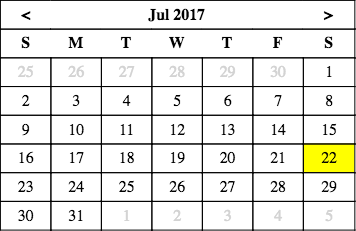
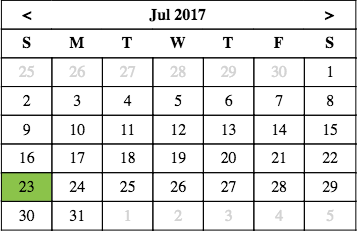
cal api add, docs add

diff --git a/dist/main.js b/dist/main.js
@@ -1,1 +1,1 @@
-module.exports=function(e){function t(a){if(n[a])return n[a].exports;var r=n[a]={i:a,l:!1,exports:{}};return e[a].call(r.exports,r,r.exports,t),r.l=!0,r.exports}var n={};return t.m=e,t.c=n,t.d=function(e,n,a){t.o(e,n)||Object.defineProperty(e,n,{configurable:!1,enumerable:!0,get:a})},t.n=function(e){var n=e&&e.__esModule?function(){return e.default}:function(){return e};return t.d(n,"a",n),n},t.o=function(e,t){return Object.prototype.hasOwnProperty.call(e,t)},t.p="",t(t.s=3)}([function(e,t){e.exports=require("react")},function(e,t,n){"use strict";function a(e,t){if(!(e instanceof t))throw new TypeError("Cannot call a class as a function")}function r(e,t){if(!e)throw new ReferenceError("this hasn't been initialised - super() hasn't been called");return!t||"object"!=typeof t&&"function"!=typeof t?e:t}function o(e,t){if("function"!=typeof t&&null!==t)throw new TypeError("Super expression must either be null or a function, not "+typeof t);e.prototype=Object.create(t&&t.prototype,{constructor:{value:e,enumerable:!1,writable:!0,configurable:!0}}),t&&(Object.setPrototypeOf?Object.setPrototypeOf(e,t):e.__proto__=t)}Object.defineProperty(t,"__esModule",{value:!0});var l=function(){function e(e,t){for(var n=0;n<t.length;n++){var a=t[n];a.enumerable=a.enumerable||!1,a.configurable=!0,"value"in a&&(a.writable=!0),Object.defineProperty(e,a.key,a)}}return function(t,n,a){return n&&e(t.prototype,n),a&&e(t,a),t}}(),u=n(0),c=function(e){return e&&e.__esModule?e:{default:e}}(u);n(2);var s=["Jan","Feb","Mar","Apr","May","Jun","Jul","Aug","Sep","Oct","Nov","Dec"],i=864e5,f=function(e){function t(e){a(this,t);var n=r(this,(t.__proto__||Object.getPrototypeOf(t)).call(this,e)),o=n.props.date instanceof Date?n.props.date:new Date;return o.setHours(0,0,0,0),n.state={selDate:o},n}return o(t,e),l(t,[{key:"nextMonth",value:function(){var e=this.state.selDate,t=(e.getMonth(),new Date(e.getTime()+i*(e.getDate()<15?30:20)));this.setState({selDate:t})}},{key:"currMonth",value:function(){this.setState({selDate:new Date})}},{key:"prevMonth",value:function(){var e=this.state.selDate,t=(e.getMonth(),new Date(e.getTime()-i*(e.getDate()>15?30:20)));this.setState({selDate:t})}},{key:"render",value:function(){for(var e=this.state.selDate,t=s[e.getMonth()],n=e.getFullYear(),a=e.getMonth(),r=new Date(e.getTime()-i*(e.getDate()-1)),o=r.getDay(),l=new Date(r.getTime()-i*o),u=l.getMonth(),f=[];u!=a;)f.push(c.default.createElement("td",{key:l,className:"date prev-month"},l.getDate())),l=new Date(l.getTime()+i),u=l.getMonth();for(;u==a;){var p=l.toDateString()==(new Date).toDateString(),d=p?"today":"";f.push(c.default.createElement("td",{key:l,className:"date curr-month "+d},l.getDate())),l=new Date(l.getTime()+i),u=l.getMonth()}for(;l.getDay();)f.push(c.default.createElement("td",{key:l,className:"date next-month"},l.getDate())),l=new Date(l.getTime()+i),u=l.getMonth();for(var h=[],m=0;m<f.length;)h.push(c.default.createElement("tr",{key:"week-"+m/7,className:"week"},f.slice(m,m+7))),m+=7;return c.default.createElement("div",{className:"rc-month-calendar-cont"},c.default.createElement("table",{className:"rc-month-calendar "+this.props.containerKlass},c.default.createElement("thead",null,c.default.createElement("tr",{className:"header month"},c.default.createElement("th",{className:"month-button prev",onClick:this.prevMonth.bind(this)},"<"),c.default.createElement("th",{colSpan:5,className:"month",onClick:this.currMonth.bind(this)},t," ",n),c.default.createElement("th",{className:"month-button prev",onClick:this.nextMonth.bind(this)},">")),c.default.createElement("tr",{className:"header day-names"},c.default.createElement("th",{className:"day"},"S"),c.default.createElement("th",{className:"day"},"M"),c.default.createElement("th",{className:"day"},"T"),c.default.createElement("th",{className:"day"},"W"),c.default.createElement("th",{className:"day"},"T"),c.default.createElement("th",{className:"day"},"F"),c.default.createElement("th",{className:"day"},"S"))),c.default.createElement("tbody",null,h)))}}]),t}(u.Component);t.default=f},function(e,t){},function(e,t,n){"use strict";function a(e){return e&&e.__esModule?e:{default:e}}function r(e,t){if(!(e instanceof t))throw new TypeError("Cannot call a class as a function")}function o(e,t){if(!e)throw new ReferenceError("this hasn't been initialised - super() hasn't been called");return!t||"object"!=typeof t&&"function"!=typeof t?e:t}function l(e,t){if("function"!=typeof t&&null!==t)throw new TypeError("Super expression must either be null or a function, not "+typeof t);e.prototype=Object.create(t&&t.prototype,{constructor:{value:e,enumerable:!1,writable:!0,configurable:!0}}),t&&(Object.setPrototypeOf?Object.setPrototypeOf(e,t):e.__proto__=t)}var u=function(){function e(e,t){for(var n=0;n<t.length;n++){var a=t[n];a.enumerable=a.enumerable||!1,a.configurable=!0,"value"in a&&(a.writable=!0),Object.defineProperty(e,a.key,a)}}return function(t,n,a){return n&&e(t.prototype,n),a&&e(t,a),t}}(),c=n(0),s=a(c),i=n(4),f=a(i),p=n(1),d=a(p);n(5);var h=function(e){function t(){return r(this,t),o(this,(t.__proto__||Object.getPrototypeOf(t)).apply(this,arguments))}return l(t,e),u(t,[{key:"render",value:function(){return s.default.createElement("div",null,s.default.createElement(d.default,null))}}]),t}(c.Component);f.default.render(s.default.createElement(h,null),document.getElementById("app"))},function(e,t){e.exports=require("react-dom")},function(e,t){}]);
+module.exports=function(e){function t(a){if(n[a])return n[a].exports;var r=n[a]={i:a,l:!1,exports:{}};return e[a].call(r.exports,r,r.exports,t),r.l=!0,r.exports}var n={};return t.m=e,t.c=n,t.d=function(e,n,a){t.o(e,n)||Object.defineProperty(e,n,{configurable:!1,enumerable:!0,get:a})},t.n=function(e){var n=e&&e.__esModule?function(){return e.default}:function(){return e};return t.d(n,"a",n),n},t.o=function(e,t){return Object.prototype.hasOwnProperty.call(e,t)},t.p="",t(t.s=3)}([function(e,t){e.exports=require("react")},function(e,t){},function(e,t,n){"use strict";function a(e,t){if(!(e instanceof t))throw new TypeError("Cannot call a class as a function")}function r(e,t){if(!e)throw new ReferenceError("this hasn't been initialised - super() hasn't been called");return!t||"object"!=typeof t&&"function"!=typeof t?e:t}function o(e,t){if("function"!=typeof t&&null!==t)throw new TypeError("Super expression must either be null or a function, not "+typeof t);e.prototype=Object.create(t&&t.prototype,{constructor:{value:e,enumerable:!1,writable:!0,configurable:!0}}),t&&(Object.setPrototypeOf?Object.setPrototypeOf(e,t):e.__proto__=t)}Object.defineProperty(t,"__esModule",{value:!0});var s=function(){function e(e,t){for(var n=0;n<t.length;n++){var a=t[n];a.enumerable=a.enumerable||!1,a.configurable=!0,"value"in a&&(a.writable=!0),Object.defineProperty(e,a.key,a)}}return function(t,n,a){return n&&e(t.prototype,n),a&&e(t,a),t}}(),l=n(0),c=function(e){return e&&e.__esModule?e:{default:e}}(l);n(1);var u=["Jan","Feb","Mar","Apr","May","Jun","Jul","Aug","Sep","Oct","Nov","Dec"],i=864e5,h=function(e){function t(e){a(this,t);var n=r(this,(t.__proto__||Object.getPrototypeOf(t)).call(this,e)),o=n.props.date instanceof Date?n.props.date:new Date;return o.setHours(0,0,0,0),n.state={currentDate:o,selectedDate:o},n}return o(t,e),s(t,[{key:"nextMonth",value:function(){var e=this.state.currentDate,t=new Date(e.getTime()+i*(e.getDate()<15?30:20));this.setState({currentDate:t});var n=this.props.onMonthChange;n&&n(t,e)}},{key:"currMonth",value:function(){var e=this.state.currentDate,t=new Date;if(t.setHours(0,0,0,0),e.getTime()!=t.getTime()){this.setState({currentDate:t});var n=this.props.onMonthChange;n&&n(t,e)}}},{key:"prevMonth",value:function(){var e=this.state.currentDate,t=new Date(e.getTime()-i*(e.getDate()>15?30:20));this.setState({currentDate:t});var n=this.props.onMonthChange;n&&n(t,e)}},{key:"onDateClick",value:function(e,t){var n=document.querySelector(".date.selected");n&&n.classList.remove("selected"),t.target.classList.add("selected");var a=this.state.selectedDate;this.setState({selectedDate:e});var r=this.props.onDateClick;r&&r(e,a)}},{key:"render",value:function(){for(var e=this.state.selectedDate,t=this.state.currentDate,n=u[t.getMonth()],a=t.getFullYear(),r=t.getMonth(),o=new Date(t.getTime()-i*(t.getDate()-1)),s=o.getDay(),l=new Date(o.getTime()-i*s),h=l.getMonth(),p=[],f=this.props.dateKlass||"",d=this.props.containerKlass||"",m=this.props.headerMonthKlass||"",y=this.props.headerDayKlass||"",g="day "+(this.props.headerWeekDayKlass||""),v=this.props.weekContKlass||"",D=this.props.monthDescKlass||"",b=this.props.prevButtonKlass||"",w=this.props.nextButtonKlass||"",k=void 0==this.props.prevButtonHtml?"&lt;":this.props.prevButtonHtml,E=void 0==this.props.nextButtonHtml?"&gt;":this.props.nextButtonHtml;h!=r;){var _=l.toDateString()==e.toDateString();p.push(c.default.createElement("td",{key:l,className:"date prev-month "+f+" "+(_?"selected":""),onClick:this.onDateClick.bind(this,l)},l.getDate())),l=new Date(l.getTime()+i),h=l.getMonth()}for(;h==r;){var M=l.toDateString()==e.toDateString(),C=l.toDateString()==(new Date).toDateString(),x=C?"today":"";p.push(c.default.createElement("td",{key:l,className:"date curr-month "+x+" "+f+" "+(M?"selected":""),onClick:this.onDateClick.bind(this,l)},l.getDate())),l=new Date(l.getTime()+i),h=l.getMonth()}for(;l.getDay();){var O=l.toDateString()==e.toDateString();p.push(c.default.createElement("td",{key:l,className:"date next-month "+f+" "+(O?"selected":""),onClick:this.onDateClick.bind(this,l)},l.getDate())),l=new Date(l.getTime()+i),h=l.getMonth()}for(var S=[],N=0;N<p.length;)S.push(c.default.createElement("tr",{key:"week-"+N/7,className:"week "+v},p.slice(N,N+7))),N+=7;return c.default.createElement("div",{className:"rc-month-calendar-cont"},c.default.createElement("table",{className:"rc-month-calendar "+d},c.default.createElement("thead",null,c.default.createElement("tr",{className:"header month "+m},c.default.createElement("th",{className:"month-button prev "+b,onClick:this.prevMonth.bind(this),dangerouslySetInnerHTML:{__html:k}}),c.default.createElement("th",{colSpan:5,className:"month-desc  "+D,onClick:this.currMonth.bind(this)},n," ",a),c.default.createElement("th",{className:"month-button next "+w,onClick:this.nextMonth.bind(this),dangerouslySetInnerHTML:{__html:E}})),c.default.createElement("tr",{className:"header day-names "+y},c.default.createElement("th",{className:g},"S"),c.default.createElement("th",{className:g},"M"),c.default.createElement("th",{className:g},"T"),c.default.createElement("th",{className:g},"W"),c.default.createElement("th",{className:g},"T"),c.default.createElement("th",{className:g},"F"),c.default.createElement("th",{className:g},"S"))),c.default.createElement("tbody",null,S)))}}]),t}(l.Component);t.default=h},function(e,t,n){"use strict";function a(e){return e&&e.__esModule?e:{default:e}}function r(e,t){if(!(e instanceof t))throw new TypeError("Cannot call a class as a function")}function o(e,t){if(!e)throw new ReferenceError("this hasn't been initialised - super() hasn't been called");return!t||"object"!=typeof t&&"function"!=typeof t?e:t}function s(e,t){if("function"!=typeof t&&null!==t)throw new TypeError("Super expression must either be null or a function, not "+typeof t);e.prototype=Object.create(t&&t.prototype,{constructor:{value:e,enumerable:!1,writable:!0,configurable:!0}}),t&&(Object.setPrototypeOf?Object.setPrototypeOf(e,t):e.__proto__=t)}var l=function(){function e(e,t){for(var n=0;n<t.length;n++){var a=t[n];a.enumerable=a.enumerable||!1,a.configurable=!0,"value"in a&&(a.writable=!0),Object.defineProperty(e,a.key,a)}}return function(t,n,a){return n&&e(t.prototype,n),a&&e(t,a),t}}(),c=n(0),u=a(c),i=n(4),h=a(i),p=n(2),f=a(p);n(1),n(5);var d=function(e){function t(){return r(this,t),o(this,(t.__proto__||Object.getPrototypeOf(t)).apply(this,arguments))}return s(t,e),l(t,[{key:"render",value:function(){return u.default.createElement(f.default,{headerDayKlass:"cal-header-day",headerWeekDayKlass:"cal-week-day",weekContKlass:"cal-week-cont",containerKlass:"cal-container",headerMonthKlass:"cal-header-month",monthDescKlass:"cal-month-desc",prevButtonKlass:"cal-prev-button",nextButtonKlass:"cal-next-button",dateKlass:"cal-date",prevButtonHtml:"cal-next",nextButtonHtml:"cal-prev",onDateClick:console.log,onMonthChange:console.log})}}]),t}(c.Component);h.default.render(u.default.createElement(d,null),document.getElementById("app"))},function(e,t){e.exports=require("react-dom")},function(e,t){}]);

diff --git a/dist/calendar.js b/dist/calendar.js
@@ -1,1 +1,1 @@
-module.exports=function(e){function t(n){if(a[n])return a[n].exports;var r=a[n]={i:n,l:!1,exports:{}};return e[n].call(r.exports,r,r.exports,t),r.l=!0,r.exports}var a={};return t.m=e,t.c=a,t.d=function(e,a,n){t.o(e,a)||Object.defineProperty(e,a,{configurable:!1,enumerable:!0,get:n})},t.n=function(e){var a=e&&e.__esModule?function(){return e.default}:function(){return e};return t.d(a,"a",a),a},t.o=function(e,t){return Object.prototype.hasOwnProperty.call(e,t)},t.p="",t(t.s=1)}([function(e,t){e.exports=require("react")},function(e,t,a){"use strict";function n(e,t){if(!(e instanceof t))throw new TypeError("Cannot call a class as a function")}function r(e,t){if(!e)throw new ReferenceError("this hasn't been initialised - super() hasn't been called");return!t||"object"!=typeof t&&"function"!=typeof t?e:t}function o(e,t){if("function"!=typeof t&&null!==t)throw new TypeError("Super expression must either be null or a function, not "+typeof t);e.prototype=Object.create(t&&t.prototype,{constructor:{value:e,enumerable:!1,writable:!0,configurable:!0}}),t&&(Object.setPrototypeOf?Object.setPrototypeOf(e,t):e.__proto__=t)}Object.defineProperty(t,"__esModule",{value:!0});var l=function(){function e(e,t){for(var a=0;a<t.length;a++){var n=t[a];n.enumerable=n.enumerable||!1,n.configurable=!0,"value"in n&&(n.writable=!0),Object.defineProperty(e,n.key,n)}}return function(t,a,n){return a&&e(t.prototype,a),n&&e(t,n),t}}(),s=a(0),c=function(e){return e&&e.__esModule?e:{default:e}}(s);a(2);var u=["Jan","Feb","Mar","Apr","May","Jun","Jul","Aug","Sep","Oct","Nov","Dec"],i=864e5,f=function(e){function t(e){n(this,t);var a=r(this,(t.__proto__||Object.getPrototypeOf(t)).call(this,e)),o=a.props.date instanceof Date?a.props.date:new Date;return o.setHours(0,0,0,0),a.state={selDate:o},a}return o(t,e),l(t,[{key:"nextMonth",value:function(){var e=this.state.selDate,t=(e.getMonth(),new Date(e.getTime()+i*(e.getDate()<15?30:20)));this.setState({selDate:t})}},{key:"currMonth",value:function(){this.setState({selDate:new Date})}},{key:"prevMonth",value:function(){var e=this.state.selDate,t=(e.getMonth(),new Date(e.getTime()-i*(e.getDate()>15?30:20)));this.setState({selDate:t})}},{key:"render",value:function(){for(var e=this.state.selDate,t=u[e.getMonth()],a=e.getFullYear(),n=e.getMonth(),r=new Date(e.getTime()-i*(e.getDate()-1)),o=r.getDay(),l=new Date(r.getTime()-i*o),s=l.getMonth(),f=[];s!=n;)f.push(c.default.createElement("td",{key:l,className:"date prev-month"},l.getDate())),l=new Date(l.getTime()+i),s=l.getMonth();for(;s==n;){var h=l.toDateString()==(new Date).toDateString(),m=h?"today":"";f.push(c.default.createElement("td",{key:l,className:"date curr-month "+m},l.getDate())),l=new Date(l.getTime()+i),s=l.getMonth()}for(;l.getDay();)f.push(c.default.createElement("td",{key:l,className:"date next-month"},l.getDate())),l=new Date(l.getTime()+i),s=l.getMonth();for(var d=[],p=0;p<f.length;)d.push(c.default.createElement("tr",{key:"week-"+p/7,className:"week"},f.slice(p,p+7))),p+=7;return c.default.createElement("div",{className:"rc-month-calendar-cont"},c.default.createElement("table",{className:"rc-month-calendar "+this.props.containerKlass},c.default.createElement("thead",null,c.default.createElement("tr",{className:"header month"},c.default.createElement("th",{className:"month-button prev",onClick:this.prevMonth.bind(this)},"<"),c.default.createElement("th",{colSpan:5,className:"month",onClick:this.currMonth.bind(this)},t," ",a),c.default.createElement("th",{className:"month-button prev",onClick:this.nextMonth.bind(this)},">")),c.default.createElement("tr",{className:"header day-names"},c.default.createElement("th",{className:"day"},"S"),c.default.createElement("th",{className:"day"},"M"),c.default.createElement("th",{className:"day"},"T"),c.default.createElement("th",{className:"day"},"W"),c.default.createElement("th",{className:"day"},"T"),c.default.createElement("th",{className:"day"},"F"),c.default.createElement("th",{className:"day"},"S"))),c.default.createElement("tbody",null,d)))}}]),t}(s.Component);t.default=f},function(e,t){}]);
+module.exports=function(e){function t(n){if(a[n])return a[n].exports;var r=a[n]={i:n,l:!1,exports:{}};return e[n].call(r.exports,r,r.exports,t),r.l=!0,r.exports}var a={};return t.m=e,t.c=a,t.d=function(e,a,n){t.o(e,a)||Object.defineProperty(e,a,{configurable:!1,enumerable:!0,get:n})},t.n=function(e){var a=e&&e.__esModule?function(){return e.default}:function(){return e};return t.d(a,"a",a),a},t.o=function(e,t){return Object.prototype.hasOwnProperty.call(e,t)},t.p="",t(t.s=2)}([function(e,t){e.exports=require("react")},function(e,t){},function(e,t,a){"use strict";function n(e,t){if(!(e instanceof t))throw new TypeError("Cannot call a class as a function")}function r(e,t){if(!e)throw new ReferenceError("this hasn't been initialised - super() hasn't been called");return!t||"object"!=typeof t&&"function"!=typeof t?e:t}function s(e,t){if("function"!=typeof t&&null!==t)throw new TypeError("Super expression must either be null or a function, not "+typeof t);e.prototype=Object.create(t&&t.prototype,{constructor:{value:e,enumerable:!1,writable:!0,configurable:!0}}),t&&(Object.setPrototypeOf?Object.setPrototypeOf(e,t):e.__proto__=t)}Object.defineProperty(t,"__esModule",{value:!0});var o=function(){function e(e,t){for(var a=0;a<t.length;a++){var n=t[a];n.enumerable=n.enumerable||!1,n.configurable=!0,"value"in n&&(n.writable=!0),Object.defineProperty(e,n.key,n)}}return function(t,a,n){return a&&e(t.prototype,a),n&&e(t,n),t}}(),l=a(0),c=function(e){return e&&e.__esModule?e:{default:e}}(l);a(1);var i=["Jan","Feb","Mar","Apr","May","Jun","Jul","Aug","Sep","Oct","Nov","Dec"],u=864e5,h=function(e){function t(e){n(this,t);var a=r(this,(t.__proto__||Object.getPrototypeOf(t)).call(this,e)),s=a.props.date instanceof Date?a.props.date:new Date;return s.setHours(0,0,0,0),a.state={currentDate:s,selectedDate:s},a}return s(t,e),o(t,[{key:"nextMonth",value:function(){var e=this.state.currentDate,t=new Date(e.getTime()+u*(e.getDate()<15?30:20));this.setState({currentDate:t});var a=this.props.onMonthChange;a&&a(t,e)}},{key:"currMonth",value:function(){var e=this.state.currentDate,t=new Date;if(t.setHours(0,0,0,0),e.getTime()!=t.getTime()){this.setState({currentDate:t});var a=this.props.onMonthChange;a&&a(t,e)}}},{key:"prevMonth",value:function(){var e=this.state.currentDate,t=new Date(e.getTime()-u*(e.getDate()>15?30:20));this.setState({currentDate:t});var a=this.props.onMonthChange;a&&a(t,e)}},{key:"onDateClick",value:function(e,t){var a=document.querySelector(".date.selected");a&&a.classList.remove("selected"),t.target.classList.add("selected");var n=this.state.selectedDate;this.setState({selectedDate:e});var r=this.props.onDateClick;r&&r(e,n)}},{key:"render",value:function(){for(var e=this.state.selectedDate,t=this.state.currentDate,a=i[t.getMonth()],n=t.getFullYear(),r=t.getMonth(),s=new Date(t.getTime()-u*(t.getDate()-1)),o=s.getDay(),l=new Date(s.getTime()-u*o),h=l.getMonth(),p=[],d=this.props.dateKlass||"",f=this.props.containerKlass||"",m=this.props.headerMonthKlass||"",D=this.props.headerDayKlass||"",g="day "+(this.props.headerWeekDayKlass||""),v=this.props.weekContKlass||"",y=this.props.monthDescKlass||"",b=this.props.prevButtonKlass||"",k=this.props.nextButtonKlass||"",M=void 0==this.props.prevButtonHtml?"&lt;":this.props.prevButtonHtml,E=void 0==this.props.nextButtonHtml?"&gt;":this.props.nextButtonHtml;h!=r;){var w=l.toDateString()==e.toDateString();p.push(c.default.createElement("td",{key:l,className:"date prev-month "+d+" "+(w?"selected":""),onClick:this.onDateClick.bind(this,l)},l.getDate())),l=new Date(l.getTime()+u),h=l.getMonth()}for(;h==r;){var S=l.toDateString()==e.toDateString(),N=l.toDateString()==(new Date).toDateString(),_=N?"today":"";p.push(c.default.createElement("td",{key:l,className:"date curr-month "+_+" "+d+" "+(S?"selected":""),onClick:this.onDateClick.bind(this,l)},l.getDate())),l=new Date(l.getTime()+u),h=l.getMonth()}for(;l.getDay();){var C=l.toDateString()==e.toDateString();p.push(c.default.createElement("td",{key:l,className:"date next-month "+d+" "+(C?"selected":""),onClick:this.onDateClick.bind(this,l)},l.getDate())),l=new Date(l.getTime()+u),h=l.getMonth()}for(var x=[],T=0;T<p.length;)x.push(c.default.createElement("tr",{key:"week-"+T/7,className:"week "+v},p.slice(T,T+7))),T+=7;return c.default.createElement("div",{className:"rc-month-calendar-cont"},c.default.createElement("table",{className:"rc-month-calendar "+f},c.default.createElement("thead",null,c.default.createElement("tr",{className:"header month "+m},c.default.createElement("th",{className:"month-button prev "+b,onClick:this.prevMonth.bind(this),dangerouslySetInnerHTML:{__html:M}}),c.default.createElement("th",{colSpan:5,className:"month-desc  "+y,onClick:this.currMonth.bind(this)},a," ",n),c.default.createElement("th",{className:"month-button next "+k,onClick:this.nextMonth.bind(this),dangerouslySetInnerHTML:{__html:E}})),c.default.createElement("tr",{className:"header day-names "+D},c.default.createElement("th",{className:g},"S"),c.default.createElement("th",{className:g},"M"),c.default.createElement("th",{className:g},"T"),c.default.createElement("th",{className:g},"W"),c.default.createElement("th",{className:g},"T"),c.default.createElement("th",{className:g},"F"),c.default.createElement("th",{className:g},"S"))),c.default.createElement("tbody",null,x)))}}]),t}(l.Component);t.default=h}]);

diff --git a/Calendar.js b/Calendar.js
@@ -13,88 +13,148 @@ class MonthCalendar extends Component {
     date.setHours(0, 0, 0, 0);
 
     this.state = {
-      selDate: date
+      currentDate: date,
+      selectedDate: date
     }
     
   }
 
   nextMonth() {
 
-    let selDate = this.state.selDate;
-    let selMonth = selDate.getMonth();
-
-    let newSelDate = new Date(selDate.getTime() + (day * (selDate.getDate() < 15 ? 30 : 20)));
+    let currentDate = this.state.currentDate;
+    
+    let newCurrentDate = new Date(currentDate.getTime() + (day * (currentDate.getDate() < 15 ? 30 : 20)));
 
     this.setState({
-      selDate: newSelDate
+      currentDate: newCurrentDate
     });
+
+    let onMonthChange = this.props.onMonthChange;
+    onMonthChange && onMonthChange(newCurrentDate, currentDate);
   }
 
   currMonth() {
-    this.setState({
-      selDate: new Date()
-    });
+
+    let currentDate = this.state.currentDate;
+    let today = new Date();
+    today.setHours(0, 0, 0, 0);
+
+    if (currentDate.getTime() != today.getTime()) {
+      this.setState({
+        currentDate: today
+      });
+
+      let onMonthChange = this.props.onMonthChange;
+      onMonthChange && onMonthChange(today, currentDate);
+    }
   }
 
   prevMonth() {
 
-    let selDate = this.state.selDate;
-    let selMonth = selDate.getMonth();
-
-    let newSelDate = new Date(selDate.getTime() - (day * (selDate.getDate() > 15 ? 30 : 20)));
+    let currentDate = this.state.currentDate;
+    
+    let newCurrentDate = new Date(currentDate.getTime() - (day * (currentDate.getDate() > 15 ? 30 : 20)));
 
     this.setState({
-      selDate: newSelDate
+      currentDate: newCurrentDate
     });
+
+    let onMonthChange = this.props.onMonthChange;
+    onMonthChange && onMonthChange(newCurrentDate, currentDate);
+  }
+
+  onDateClick(date, event) {
+
+    let selectedDate = document.querySelector(".date.selected");
+    selectedDate && selectedDate.classList.remove("selected");
+
+    event.target.classList.add("selected");
+
+    let oldSelectedDate = this.state.selectedDate;
+
+    this.setState({
+      selectedDate: date
+    })
+    
+    let onDateClick = this.props.onDateClick;
+    onDateClick && onDateClick(date, oldSelectedDate);
   }
 
   render() {
 
-    let selDate = this.state.selDate;
-    let month = months[selDate.getMonth()];
-    let year = selDate.getFullYear();
+    let selectedDate = this.state.selectedDate;
 
-    let currMonth = selDate.getMonth();
+    let currentDate = this.state.currentDate;
+    let month = months[currentDate.getMonth()];
+    let year = currentDate.getFullYear();
 
-    let firstDate = new Date(selDate.getTime() - (day * (selDate.getDate() - 1)));
+    let currMonth = currentDate.getMonth();
+
+    let firstDate = new Date(currentDate.getTime() - (day * (currentDate.getDate() - 1)));
     let firstDay = firstDate.getDay();
 
-    let currDate = new Date(firstDate.getTime() - (day * firstDay));
-    let currDateMonth = currDate.getMonth();
+    let travDate = new Date(firstDate.getTime() - (day * firstDay));
+    let travDateMonth = travDate.getMonth();
 
     let monthDates = [];
+    let selectedKlass = "selected";
 
-    while (currDateMonth != currMonth) {
+    let dateKlass = this.props.dateKlass || "";
+
+    let containerKlass = this.props.containerKlass || "";
+    let headerMonthKlass = this.props.headerMonthKlass || "";
+    let headerDayKlass = this.props.headerDayKlass || "";
+    let headerWeekDayKlass = `day ${this.props.headerWeekDayKlass || ""}`;
+    let weekContKlass = this.props.weekContKlass || "";
+    let monthDescKlass = this.props.monthDescKlass || "";
+
+    let prevButtonKlass = this.props.prevButtonKlass || "";
+    let nextButtonKlass = this.props.nextButtonKlass || "";
+
+    let prevButtonHtml = this.props.prevButtonHtml == undefined ? "&lt;" : this.props.prevButtonHtml;
+    let nextButtonHtml = this.props.nextButtonHtml == undefined ? "&gt;" : this.props.nextButtonHtml;
+
+    while (travDateMonth != currMonth) {
+
+      let isItSelected = travDate.toDateString() == selectedDate.toDateString();
+
       monthDates.push((
-        <td key={currDate}
-          className="date prev-month">{currDate.getDate()}</td>
+        <td key={travDate}
+          className={`date prev-month ${dateKlass} ${isItSelected ? selectedKlass : ""}`}
+          onClick={this.onDateClick.bind(this, travDate)}>{travDate.getDate()}</td>
       ));
 
-      currDate = new Date(currDate.getTime() + day);
-      currDateMonth = currDate.getMonth();
+      travDate = new Date(travDate.getTime() + day);
+      travDateMonth = travDate.getMonth();
     }
 
-    while (currDateMonth == currMonth) {
-      let isItToday = currDate.toDateString() == new Date().toDateString();
+    while (travDateMonth == currMonth) {
+      let isItSelected = travDate.toDateString() == selectedDate.toDateString();
+
+      let isItToday = travDate.toDateString() == new Date().toDateString();
       let todayKlass = isItToday ? "today" : "";
 
       monthDates.push((
-        <td key={currDate}
-          className={`date curr-month ${todayKlass}`}>{currDate.getDate()}</td>
+        <td key={travDate}
+          className={`date curr-month ${todayKlass} ${dateKlass} ${isItSelected ? selectedKlass : ""}`}
+          onClick={this.onDateClick.bind(this, travDate)}>{travDate.getDate()}</td>
       ));
 
-      currDate = new Date(currDate.getTime() + day);
-      currDateMonth = currDate.getMonth();
+      travDate = new Date(travDate.getTime() + day);
+      travDateMonth = travDate.getMonth();
     }
 
-    while (currDate.getDay()) {
+    while (travDate.getDay()) {
+      let isItSelected = travDate.toDateString() == selectedDate.toDateString();
+
       monthDates.push((
-        <td key={currDate}
-          className="date next-month">{currDate.getDate()}</td>
+        <td key={travDate}
+          className={`date next-month ${dateKlass} ${isItSelected ? selectedKlass : ""}`}
+          onClick={this.onDateClick.bind(this, travDate)}>{travDate.getDate()}</td>
       ));
 
-      currDate = new Date(currDate.getTime() + day);
-      currDateMonth = currDate.getMonth();
+      travDate = new Date(travDate.getTime() + day);
+      travDateMonth = travDate.getMonth();
     }
 
     let datesContent = [];
@@ -103,30 +163,36 @@ class MonthCalendar extends Component {
     while (dateIndex < monthDates.length) {
       datesContent.push((
         <tr key={`week-${dateIndex / 7}`}
-           className="week">{monthDates.slice(dateIndex, dateIndex + 7)}</tr>
+           className={`week ${weekContKlass}`}>{monthDates.slice(dateIndex, dateIndex + 7)}</tr>
       ));
       dateIndex += 7;
     }
 
     return (
       <div className="rc-month-calendar-cont">
-        <table className={`rc-month-calendar ${this.props.containerKlass}`}>
+        <table className={`rc-month-calendar ${containerKlass}`}>
           <thead>
-            <tr className="header month">
-              <th className="month-button prev" onClick={this.prevMonth.bind(this)}>&lt;</th>
-              <th colSpan={5} className="month" onClick={this.currMonth.bind(this)}>
+            <tr className={`header month ${headerMonthKlass}`}>
+              <th className={`month-button prev ${prevButtonKlass}`}
+                onClick={this.prevMonth.bind(this)}
+                dangerouslySetInnerHTML={{__html: prevButtonHtml}}></th>
+              <th colSpan={5}
+                className={`month-desc  ${monthDescKlass}`}
+                onClick={this.currMonth.bind(this)}>
                 {month} {year}
               </th>
-              <th className="month-button prev" onClick={this.nextMonth.bind(this)}>&gt;</th>
+              <th className={`month-button next ${nextButtonKlass}`}
+                onClick={this.nextMonth.bind(this)}
+                dangerouslySetInnerHTML={{__html: nextButtonHtml}}></th>
             </tr>
-            <tr className="header day-names">
-              <th className="day">S</th>
-              <th className="day">M</th>
-              <th className="day">T</th>
-              <th className="day">W</th>
-              <th className="day">T</th>
-              <th className="day">F</th>
-              <th className="day">S</th>
+            <tr className={`header day-names ${headerDayKlass}`}>
+              <th className={headerWeekDayKlass}>S</th>
+              <th className={headerWeekDayKlass}>M</th>
+              <th className={headerWeekDayKlass}>T</th>
+              <th className={headerWeekDayKlass}>W</th>
+              <th className={headerWeekDayKlass}>T</th>
+              <th className={headerWeekDayKlass}>F</th>
+              <th className={headerWeekDayKlass}>S</th>
             </tr>
           </thead>
           <tbody>

diff --git a/dist/calendar.css b/dist/calendar.css
@@ -1,1 +1,1 @@
-.rc-month-calendar-cont{width:100%}.rc-month-calendar-cont .rc-month-calendar{text-align:center;border-spacing:0;border-collapse:collapse;border:1px solid #000;width:100%}.rc-month-calendar-cont .rc-month-calendar td,.rc-month-calendar-cont .rc-month-calendar th{padding:1.5% 0}.rc-month-calendar-cont .rc-month-calendar .header.day-names,.rc-month-calendar-cont .rc-month-calendar .header.month{border-bottom:1px solid #000}.rc-month-calendar-cont .rc-month-calendar .date{border:1px solid #000}.rc-month-calendar-cont .rc-month-calendar .date.next-month,.rc-month-calendar-cont .rc-month-calendar .date.prev-month{color:#d3d3d3}.rc-month-calendar-cont .rc-month-calendar .date.today{background-color:#ff0}
+.rc-month-calendar-cont{width:100%}.rc-month-calendar-cont .rc-month-calendar{text-align:center;border-spacing:0;border-collapse:collapse;border:1px solid #000;width:100%}.rc-month-calendar-cont .rc-month-calendar td,.rc-month-calendar-cont .rc-month-calendar th{padding:1.5% 0;text-align:center}.rc-month-calendar-cont .rc-month-calendar .header.day-names,.rc-month-calendar-cont .rc-month-calendar .header.month{border-bottom:1px solid #000}.rc-month-calendar-cont .rc-month-calendar .date{border:1px solid #000}.rc-month-calendar-cont .rc-month-calendar .date.next-month,.rc-month-calendar-cont .rc-month-calendar .date.prev-month{color:#d3d3d3}.rc-month-calendar-cont .rc-month-calendar .date.selected{background-color:#cddc39}.rc-month-calendar-cont .rc-month-calendar .date.today{background-color:#8bc34a}

diff --git a/dist/main.css b/dist/main.css
@@ -1,1 +1,1 @@
-.rc-month-calendar-cont{width:100%}.rc-month-calendar-cont .rc-month-calendar{text-align:center;border-spacing:0;border-collapse:collapse;border:1px solid #000;width:100%}.rc-month-calendar-cont .rc-month-calendar td,.rc-month-calendar-cont .rc-month-calendar th{padding:1.5% 0}.rc-month-calendar-cont .rc-month-calendar .header.day-names,.rc-month-calendar-cont .rc-month-calendar .header.month{border-bottom:1px solid #000}.rc-month-calendar-cont .rc-month-calendar .date{border:1px solid #000}.rc-month-calendar-cont .rc-month-calendar .date.next-month,.rc-month-calendar-cont .rc-month-calendar .date.prev-month{color:#d3d3d3}.rc-month-calendar-cont .rc-month-calendar .date.today{background-color:#ff0}
+.rc-month-calendar-cont{width:100%}.rc-month-calendar-cont .rc-month-calendar{text-align:center;border-spacing:0;border-collapse:collapse;border:1px solid #000;width:100%}.rc-month-calendar-cont .rc-month-calendar td,.rc-month-calendar-cont .rc-month-calendar th{padding:1.5% 0;text-align:center}.rc-month-calendar-cont .rc-month-calendar .header.day-names,.rc-month-calendar-cont .rc-month-calendar .header.month{border-bottom:1px solid #000}.rc-month-calendar-cont .rc-month-calendar .date{border:1px solid #000}.rc-month-calendar-cont .rc-month-calendar .date.next-month,.rc-month-calendar-cont .rc-month-calendar .date.prev-month{color:#d3d3d3}.rc-month-calendar-cont .rc-month-calendar .date.selected{background-color:#cddc39}.rc-month-calendar-cont .rc-month-calendar .date.today{background-color:#8bc34a}

diff --git a/webpack.build.js b/webpack.build.js
@@ -1,6 +1,5 @@
 var path = require("path");
 var ExtractTextPlugin = require("extract-text-webpack-plugin");
-var CopyWebpackPlugin = require('copy-webpack-plugin');
 
 var extractCSS = new ExtractTextPlugin({
                         filename: "[name].css",
@@ -15,12 +14,13 @@ module.exports = {
   output: {
     path: path.resolve(__dirname, "dist"),
     publicPath: "",
-    filename: "[name].js"
+    filename: "[name].js",
+    libraryTarget: 'commonjs2',
+    library: 'rc-month-calendar'
   },
-  devServer: {
-    hot: true,
-    inline: true,
-    port: 3000
+  externals: {
+    'react': 'react',
+    'react-dom': 'react-dom'
   },
   module: {
     loaders: [
@@ -35,10 +35,6 @@ module.exports = {
           ]
         }
       },
-      { 
-        test: /\.css$/, 
-        loader: extractCSS.extract({fallback: "style-loader", use: "css-loader"})
-      },
       {
         test: /\.less$/,
         loader: extractCSS.extract({fallback: "style-loader", use: "css-loader!less-loader"})
@@ -46,9 +42,6 @@ module.exports = {
     ]
   },
   plugins: [
-    extractCSS,
-    new CopyWebpackPlugin([
-      { from: './index.html' },
-    ])
+    extractCSS
   ]
 }

diff --git a/main.js b/main.js
@@ -5,10 +5,25 @@ import MonthCalendar from './Calendar';
 
 class App extends Component {
   render() {
-    return <MonthCalendar />
+    return <MonthCalendar
+      headerDayKlass={"cal-header-day"}
+      headerWeekDayKlass={"cal-week-day"}
+      weekContKlass={"cal-week-cont"}
+      containerKlass={"cal-container"}
+      headerMonthKlass={"cal-header-month"}
+      monthDescKlass={"cal-month-desc"}
+      prevButtonKlass={"cal-prev-button"}
+      nextButtonKlass={"cal-next-button"}
+      dateKlass={"cal-date"}
+      prevButtonHtml={"cal-next"}
+      nextButtonHtml={"cal-prev"}
+      onDateClick={console.log}
+      onMonthChange={console.log} />
   }
 }
 
+import "./Calendar.less";
 import "./style.less";
+
 
 ReactDom.render(<App />, document.getElementById("app"));

diff --git a/Calendar.less b/Calendar.less
@@ -1,7 +1,7 @@
 .rc-month-calendar-cont {
 
   width: 100%;
-  
+
   .rc-month-calendar {
 
     text-align: center;
@@ -14,6 +14,7 @@
 
     td, th {
       padding: 1.5% 0;
+      text-align: center;
     }
     
     .header {
@@ -31,8 +32,12 @@
         color: lightgray;
       }
 
+      &.selected {
+        background-color: #CDDC39;
+      }
+
       &.today {
-        background-color: yellow;
+        background-color: #8BC34A;
       }
     }
 

diff --git a/index.html b/index.html
@@ -6,6 +6,7 @@
         <meta name="viewport" content="width=device-width, initial-scale=1">
         <title>Month Calendar</title>
         <link rel="stylesheet" href="style.css">
+        <link rel="stylesheet" href="calendar.css">
         <link rel="author" href="humans.txt">
     </head>
     <body>

diff --git a/README.md b/README.md
@@ -22,5 +22,26 @@ class App extends React.Component {
 ReactDOM.render(<App/>, document.getElementById('container'));
 ```
 
+## Documentation
+
+#### onDateClick : `React.PropTypes.func`
+Callback called when clicked on any date (receives `date` and `oldDate` as arguments - both type `Date`)
+
+Adds `selected` class on the clicked date.
+#### onMonthChange: `React.PropTypes.func`
+Callback called when month changed (receives `newMonth` and `oldMonth` as arguments - both type `Date`)
+#### containerKlass: `React.PropTypes.string`
+class name to add on the monthe calendar top level element.
+#### prevButtonKlass: `React.PropTypes.string`
+class name to add on the previous month button element
+#### nextButtonKlass: `React.PropTypes.string`
+class name to add on the next month button element
+#### prevButtonHtml: `React.PropTypes.string`
+HTML to replace for previous button element (default `<`)
+#### nextButtonHtml: `React.PropTypes.string`
+HTML to replace for next button element (default `>`)
+
+ 
+
 ## Screenshot
 ![Month View](https://raw.githubusercontent.com/yogeshkhatri1989/rc-month-calendar/master/screenshots/s1.png)
